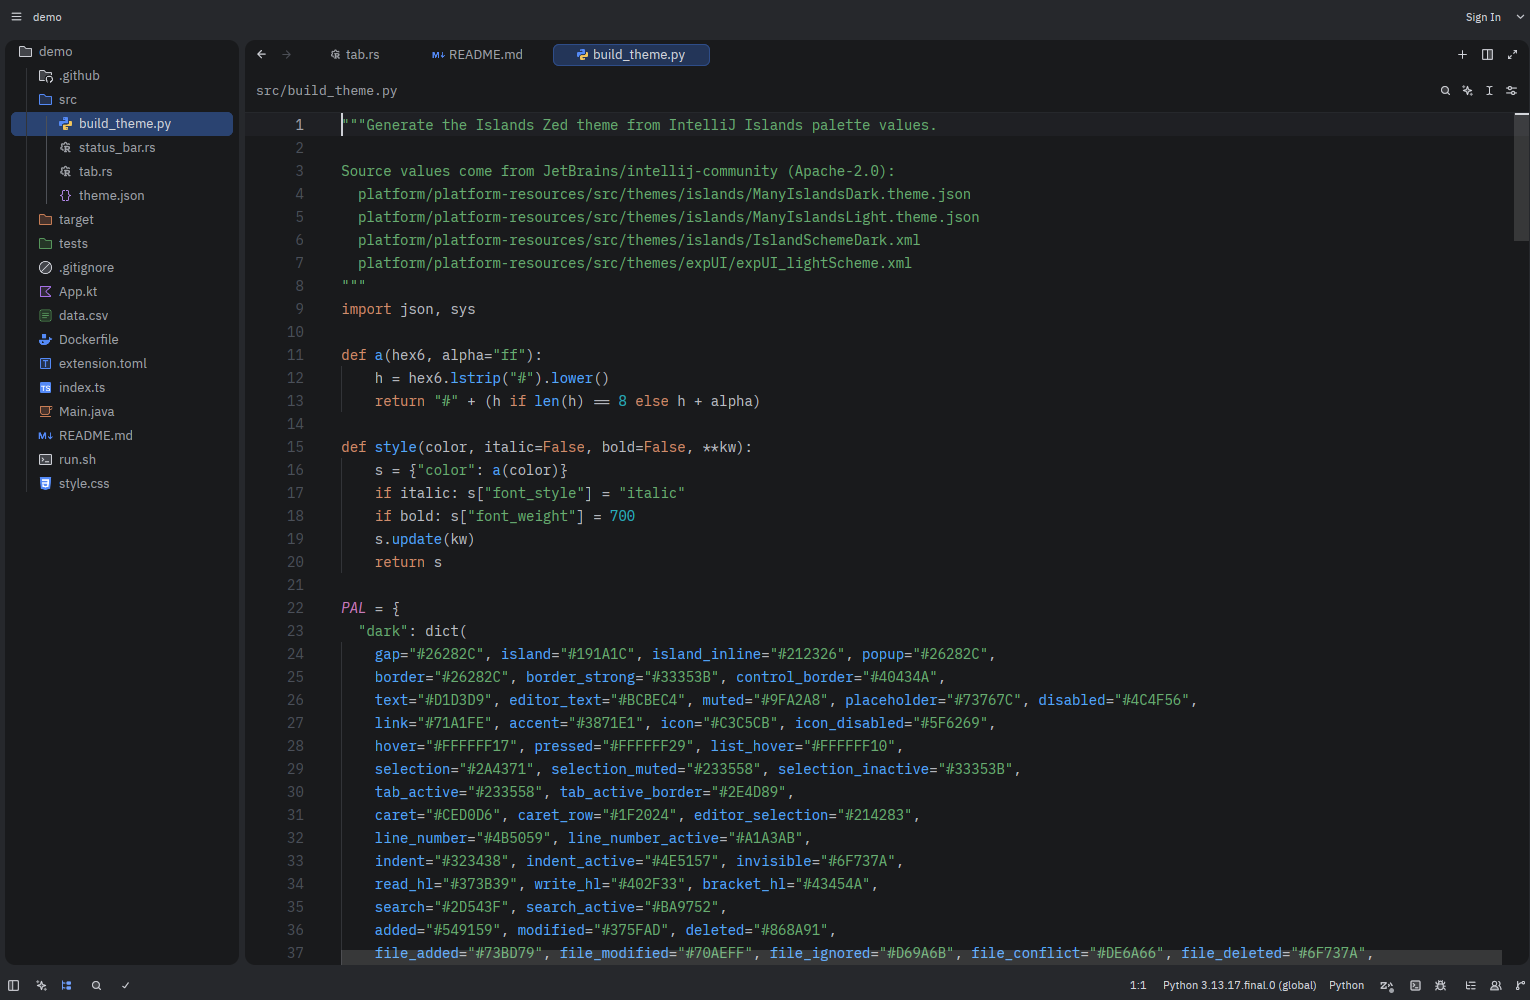
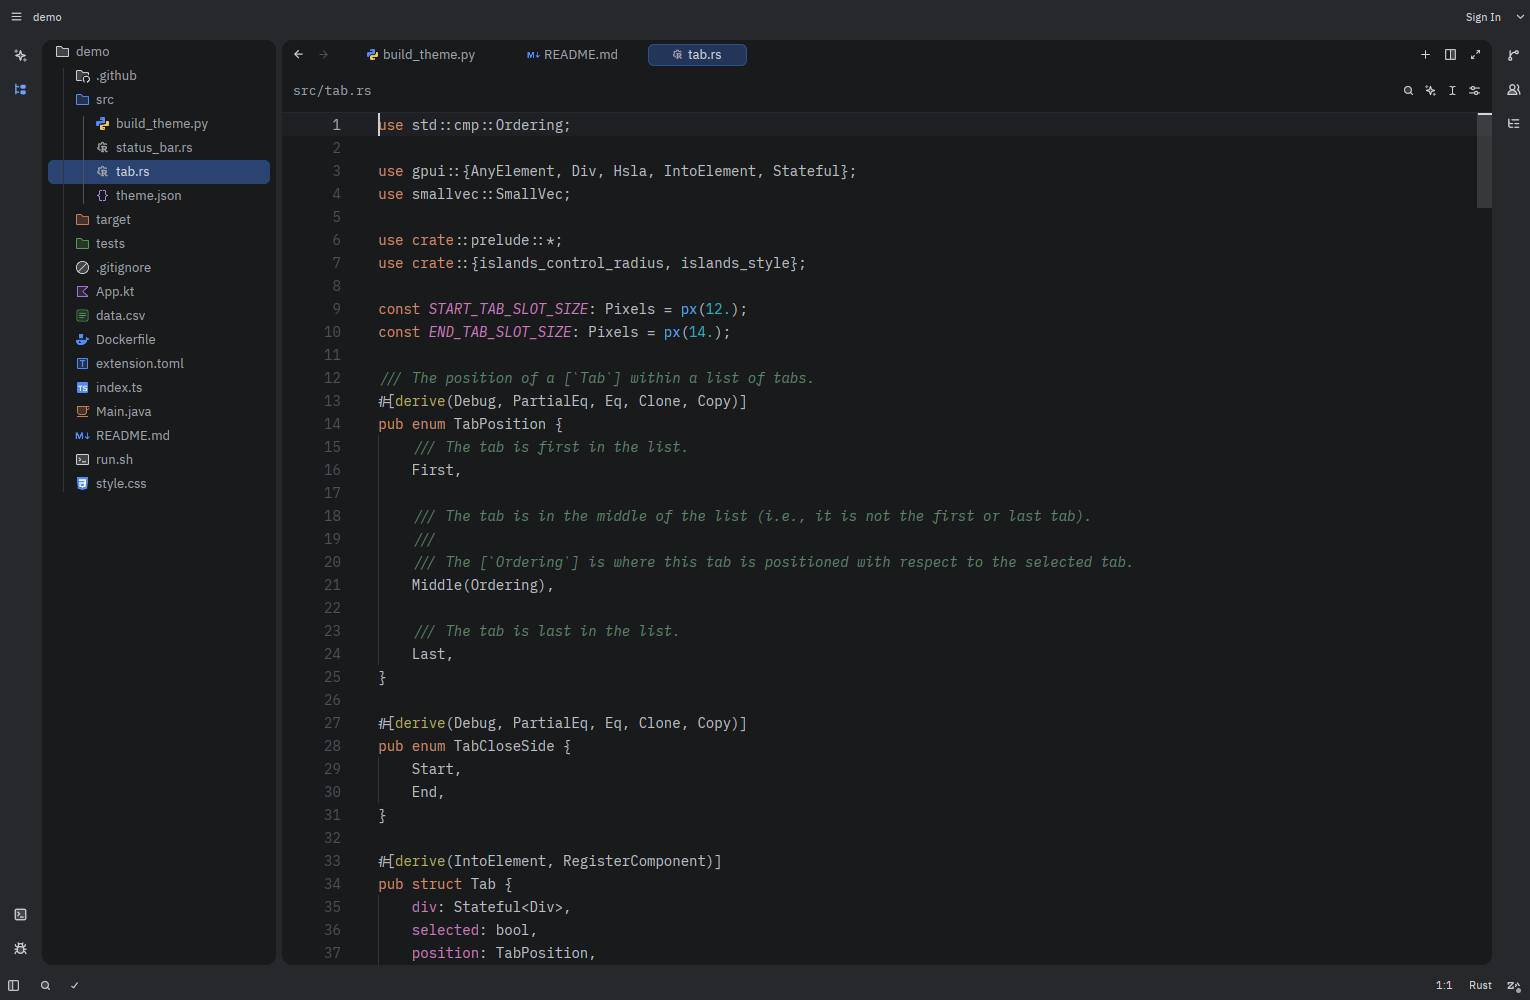
Document tool window stripes
Claude-Session: https://claude.ai/code/session_01BnQ6HuAUheDSWa9N9Mwti8

diff --git a/README.md b/README.md
@@ -59,10 +59,11 @@ while panels and the editor use the lighter "island" color.
 A prototype of the layout change lives on the `islands-layout` branch of
 [Zeirison/zed](https://github.com/Zeirison/zed/tree/islands-layout). It draws
 the editor and docks as rounded islands, editor tabs as pills, and project
-panel rows as inset rounded highlights. Enable it with:
+panel rows as inset rounded highlights, and moves panel toggles into IDEA-style
+tool window stripes along the window edges. Enable it with:
 
 ```jsonc
-"islands": { "enabled": true, "gap": 6, "corner_radius": 10 }
+"islands": { "enabled": true, "gap": 6, "corner_radius": 10, "tool_window_stripes": true }
 ```
 
 ## Regenerating the theme
